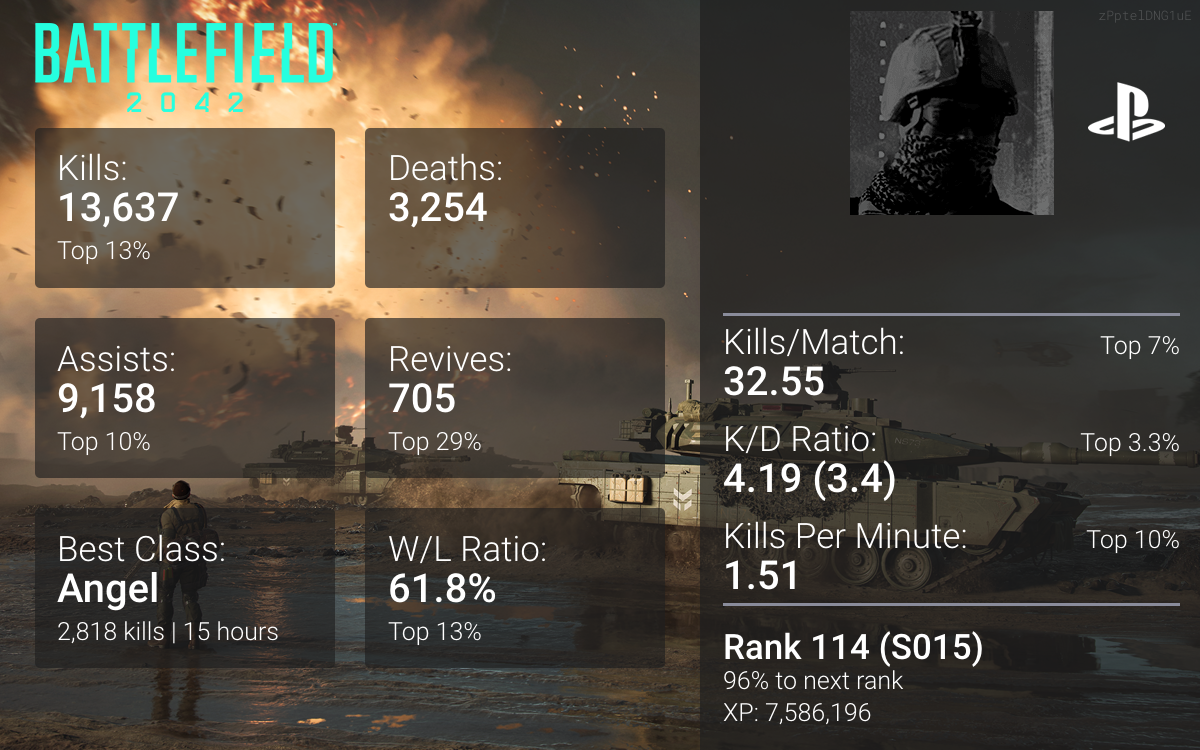
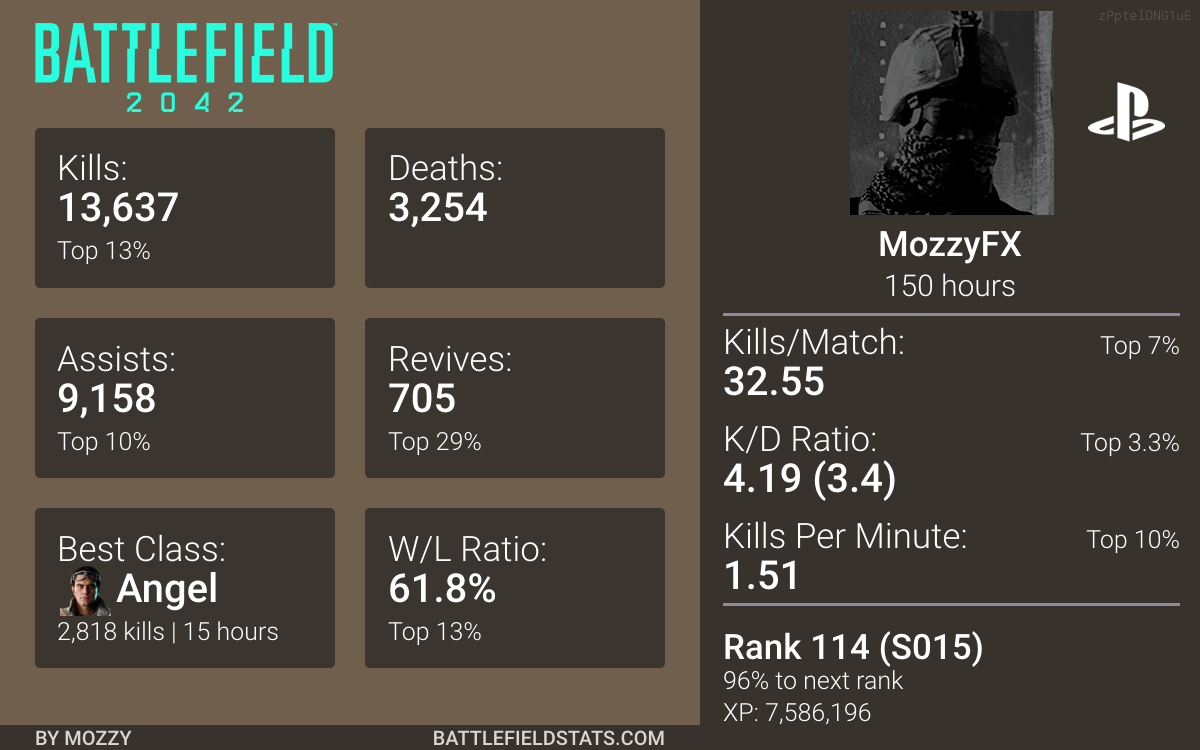
BF2042 visual proof of concept

diff --git a/canvas/images.go b/canvas/images.go
@@ -1,0 +1,185 @@
+package canvas
+
+import (
+	"fmt"
+	"image/png"
+	"os"
+	"strings"
+
+	"github.com/tdewolff/canvas"
+)
+
+type DrawStyle int
+
+const (
+	RegularStyle DrawStyle = iota
+	DrawnStyle
+)
+
+// DrawBackground draws a background image
+func DrawBackground(ctx *canvas.Context, filePath string) error {
+	bgFile, err := os.Open(filePath)
+	if err != nil {
+		return err
+	}
+	defer bgFile.Close()
+
+	bgImg, err := png.Decode(bgFile)
+	if err != nil {
+		return err
+	}
+
+	ctx.DrawImage(0, 0, bgImg, canvas.DPMM(1))
+
+	return nil
+}
+
+type SkeletonType int
+
+const (
+	RegularSkeletonType SkeletonType = iota
+	GridSkeletonType
+)
+
+// DrawSkeleton draws a skeleton background image (the rectangles and scaffolding)
+func DrawSkeleton(ctx *canvas.Context, skeletonType SkeletonType, style DrawStyle) error {
+	filePath := "assets/images/Skeleton_BGs/Regular.png"
+
+	if skeletonType == GridSkeletonType {
+		filePath = "assets/images/Skeleton_BGs/Grid.png"
+	}
+
+	if style == DrawnStyle {
+		filePath = strings.ReplaceAll(filePath, ".png", "_Drawn.png")
+	}
+
+	bgFile, err := os.Open(filePath)
+	if err != nil {
+		return err
+	}
+	defer bgFile.Close()
+
+	bgImg, err := png.Decode(bgFile)
+	if err != nil {
+		return err
+	}
+
+	ctx.DrawImage(0, 0, bgImg, canvas.DPMM(1))
+
+	return nil
+}
+
+func DrawFooterWithText(ctx *canvas.Context, leftText string, rightText string) {
+	ctx.SetFillColor(canvas.RGBA(32, 32, 32, 0.7))
+	rect := canvas.Rectangle(700, 25)
+	ctx.DrawPath(0, 725, rect)
+
+	ctx.DrawText(35, 745, canvas.NewTextLine(robotoFont.Face(PixelsToPoints(20), canvas.RGBA(255, 255, 255, 0.8), canvas.FontMedium), leftText, canvas.Left))
+	ctx.DrawText(665, 745, canvas.NewTextLine(robotoFont.Face(PixelsToPoints(20), canvas.RGBA(255, 255, 255, 0.8), canvas.FontMedium), rightText, canvas.Right))
+}
+
+// DrawGameLogo draws a game logo (game logo files are expected to already be placed in the correct position)
+func DrawGameLogo(ctx *canvas.Context, filePath string, style DrawStyle) error {
+	if style == DrawnStyle {
+		filePath = strings.ReplaceAll(filePath, "_LOGO_BG", "_LOGO_WORDART_BG")
+	}
+
+	bgFile, err := os.Open(filePath)
+	if err != nil {
+		return err
+	}
+	defer bgFile.Close()
+
+	bgImg, err := png.Decode(bgFile)
+	if err != nil {
+		return err
+	}
+
+	ctx.DrawImage(0, 0, bgImg, canvas.DPMM(1))
+
+	return nil
+}
+
+type Platform int
+
+const (
+	PlatformPC Platform = iota
+	PlatformPS
+	PlatformXBOX
+)
+
+// DrawPlatformIcon draws a platform icon. Dirty way to make drawn optional lol
+func DrawPlatformIcon(ctx *canvas.Context, requestedPlatform Platform, drawn ...bool) error {
+	platforms := map[int]string{
+		int(PlatformPC):   "assets/images/Platform Icons/PC.png",
+		int(PlatformXBOX): "assets/images/Platform Icons/XBOX.png",
+		int(PlatformPS):   "assets/images/Platform Icons/PS.png",
+	}
+
+	platformImagePath, ok := platforms[int(requestedPlatform)]
+	if !ok {
+		return fmt.Errorf("platform %d not found", requestedPlatform)
+	}
+
+	// If drawn is true use "assets/images/Platform Icons/{PLATFORM}_Drawn.png" instead
+	if drawn != nil && drawn[0] {
+		platformImagePath = platformImagePath[:len(platformImagePath)-4] + "_Drawn.png"
+	}
+
+	platformImageFile, err := os.Open(platformImagePath)
+	if err != nil {
+		return err
+	}
+	defer platformImageFile.Close()
+
+	platformImage, err := png.Decode(platformImageFile)
+	if err != nil {
+		return err
+	}
+
+	// Draw the image
+	// 1.3 because that looks more fitting
+	ctx.DrawImage(1088, 73, platformImage, canvas.DPMM(1.3))
+
+	return nil
+}
+
+// DrawAvatar draws an avatar image
+func DrawAvatar(ctx *canvas.Context, filePath string) error {
+	bgFile, err := os.Open(filePath)
+	if err != nil {
+		return err
+	}
+	defer bgFile.Close()
+
+	bgImg, err := png.Decode(bgFile)
+	if err != nil {
+		return err
+	}
+
+	// TODO: Figure out how to mask the image into a circle (skill issue)
+	circlePath := canvas.Circle(100)
+	ctx.DrawPath(950, 111, circlePath)
+	ctx.DrawImage(850, 11, bgImg, canvas.DPMM(1))
+	ctx.Close()
+
+	return nil
+}
+
+// DrawBestClass draws the best class image in stat slot 5
+func DrawBestClass(ctx *canvas.Context, filePath string) {
+	bestClassFile, err := os.Open(filePath)
+	if err != nil {
+		panic(err)
+	}
+	defer bestClassFile.Close()
+
+	bestClassImg, err := png.Decode(bestClassFile)
+	if err != nil {
+		panic(err)
+	}
+
+	// TODO: Values currently hardcoded for BF2042 Specialists. In the future: Support other games (smaller class icons) and cases where no class is found. Ref: https://github.com/leonlarsson/bfstats-bot/blob/main/src/utils/canvasUtils.ts#L225-L229
+	// Image size (256px) / 5 is roughly 50px
+	ctx.DrawImage(60, 565, bestClassImg, canvas.DPMM(5))
+}

diff --git a/canvas/text.go b/canvas/text.go
@@ -37,6 +37,16 @@ func DrawIdentifier(ctx *canvas.Context, identifier string) {
 	ctx.DrawText(1192, 20, canvas.NewTextLine(face, identifier, canvas.Right))
 }
 
+func DrawUsername(ctx *canvas.Context, username string) {
+	face := robotoFont.Face(PixelsToPoints(35), canvas.White, canvas.FontMedium)
+	ctx.DrawText(950, 256, canvas.NewTextLine(face, username, canvas.Center))
+}
+
+func DrawTimePlayed(ctx *canvas.Context, timePlayed string) {
+	face := robotoFont.Face(PixelsToPoints(30), canvas.White, canvas.FontLight)
+	ctx.DrawText(950, 296, canvas.NewTextLine(face, timePlayed, canvas.Center))
+}
+
 func DrawStat1(ctx *canvas.Context, title string, value string, extra string) {
 	ctx.DrawText(57, 180, canvas.NewTextLine(statsTitleFace, title, canvas.Left))
 	ctx.DrawText(57, 221, canvas.NewTextLine(statsValueFace, value, canvas.Left))
@@ -67,6 +77,12 @@ func DrawStat5(ctx *canvas.Context, title string, value string, extra string) {
 	ctx.DrawText(57, 640, canvas.NewTextLine(statsExtraFace, extra, canvas.Left))
 }
 
+func DrawStat5BestClass(ctx *canvas.Context, title string, value string, extra string) {
+	ctx.DrawText(57, 561, canvas.NewTextLine(statsTitleFace, title, canvas.Left))
+	ctx.DrawText(116, 602, canvas.NewTextLine(statsValueFace, value, canvas.Left))
+	ctx.DrawText(57, 640, canvas.NewTextLine(statsExtraFace, extra, canvas.Left))
+}
+
 func DrawStat6(ctx *canvas.Context, title string, value string, extra string) {
 	ctx.DrawText(388, 561, canvas.NewTextLine(statsTitleFace, title, canvas.Left))
 	ctx.DrawText(388, 602, canvas.NewTextLine(statsValueFace, value, canvas.Left))
@@ -91,14 +107,14 @@ func DrawRightStat3(ctx *canvas.Context, title string, value string, extra strin
 	ctx.DrawText(1180, 548, canvas.NewTextLine(statsExtraFace, extra, canvas.Right))
 }
 
+func DrawRightStat4(ctx *canvas.Context, title string, value string, extra string) {
+	ctx.DrawText(723, 658, canvas.NewTextLine(statsTitleFace, title, canvas.Left))
+	ctx.DrawText(723, 699, canvas.NewTextLine(statsValueFace, value, canvas.Left))
+	ctx.DrawText(1180, 658, canvas.NewTextLine(statsExtraFace, extra, canvas.Right))
+}
+
 func DrawRightStat4Rank(ctx *canvas.Context, title string, value string, extra string) {
 	ctx.DrawText(723, 659, canvas.NewTextLine(statsRankTitleFace, title, canvas.Left))
 	ctx.DrawText(723, 689, canvas.NewTextLine(statsRankValueFace, value, canvas.Left))
 	ctx.DrawText(723, 721, canvas.NewTextLine(statsRankExtraFace, extra, canvas.Left))
-}
-
-func DrawRightStat4Regular(ctx *canvas.Context, title string, value string, extra string) {
-	ctx.DrawText(723, 658, canvas.NewTextLine(statsTitleFace, title, canvas.Left))
-	ctx.DrawText(723, 699, canvas.NewTextLine(statsValueFace, value, canvas.Left))
-	ctx.DrawText(1180, 658, canvas.NewTextLine(statsExtraFace, extra, canvas.Right))
 }

diff --git a/main.go b/main.go
@@ -14,14 +14,18 @@ func main() {
 	ctx.SetCoordSystem(core.CartesianIV)
 
 	// Draw some images
-	canvas.DrawBackground(ctx, "assets/images/BF2042/BF2042_IMAGE_BG_0.png")
-	canvas.DrawBackground(ctx, "assets/images/Skeleton_BGs/Regular.png")
-	canvas.DrawBackground(ctx, "assets/images/BF2042/BF2042_LOGO_BG.png")
+	canvas.DrawBackground(ctx, "assets/images/BF2042/BF2042_SOLID_BG_0.png")
+	canvas.DrawSkeleton(ctx, canvas.RegularSkeletonType, canvas.RegularStyle)
+	canvas.DrawFooterWithText(ctx, "BY MOZZY", "BATTLEFIELDSTATS.COM")
+	canvas.DrawGameLogo(ctx, "assets/images/BF2042/BF2042_LOGO_BG.png", canvas.RegularStyle)
 	canvas.DrawAvatar(ctx, "assets/images/DefaultGravatar.png")
 	canvas.DrawPlatformIcon(ctx, canvas.PlatformPS)
 
 	// Draw some text
 	canvas.DrawIdentifier(ctx, "zPptelDNG1uE")
+
+	canvas.DrawUsername(ctx, "MozzyFX")
+	canvas.DrawTimePlayed(ctx, "150 hours")
 
 	canvas.DrawStat1(ctx, "Kills:", "13,637", "Top 13%")
 	canvas.DrawStat2(ctx, "Deaths:", "3,254", "")
@@ -29,7 +33,8 @@ func main() {
 	canvas.DrawStat3(ctx, "Assists:", "9,158", "Top 10%")
 	canvas.DrawStat4(ctx, "Revives:", "705", "Top 29%")
 
-	canvas.DrawStat5(ctx, "Best Class:", "Angel", "2,818 kills | 15 hours")
+	canvas.DrawStat5BestClass(ctx, "Best Class:", "Angel", "2,818 kills | 15 hours")
+	canvas.DrawBestClass(ctx, "assets/images/BF2042/Specialists/Angel.png")
 	canvas.DrawStat6(ctx, "W/L Ratio:", "61.8%", "Top 13%")
 
 	canvas.DrawRightStat1(ctx, "Kills/Match:", "32.55", "Top 7%")
